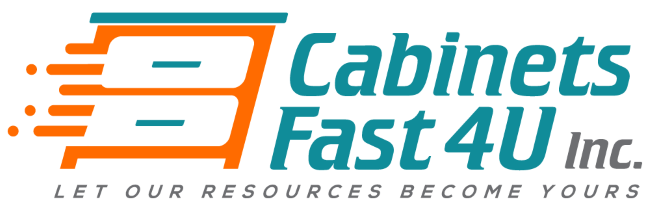
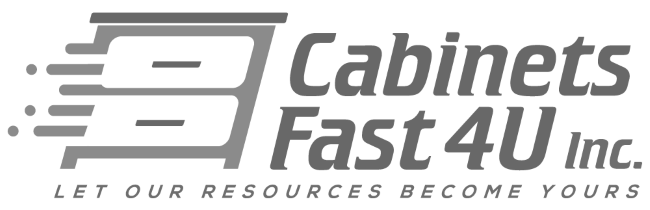
#16. Updated home client images with black and white theme and also updated about page to include new social media pages.

diff --git a/dist/main.bundle.js b/dist/main.bundle.js
@@ -38,7 +38,7 @@ module.exports = module.exports.toString();
 /***/ "../../../../../src/app/about/about.component.html":
 /***/ (function(module, exports) {
 
-module.exports = "<section>\r\n  <div class=\"parallax-container\">\r\n    <div class=\"parallax\">\r\n      <img class=\"responsive-img\" src=\"images/home-banner.jpg\"/>\r\n    </div>\r\n  </div>\r\n  <div class=\"fixed-action-btn scroll-show\">\r\n    <a id=\"menu\" class=\"btn btn-floating btn-large blurb-target scroll-show\"><i class=\"material-icons\">contact_mail</i></a>\r\n  </div>\r\n  <a class=\"waves-effect waves-light btn blurb scroll-show\">Hire Us!</a>\r\n  <!-- Tap Target Structure -->\r\n  <div class=\"tap-target\" data-activates=\"menu\">\r\n    <div class=\"tap-target-content\">\r\n      <h5>Like what you see?</h5>\r\n      <p>Contact us by calling <a href=\"tel:9493956650\">949-395-6650</a> or send us a message <a href=\"/contact\">here</a>.</p>\r\n    </div>\r\n  </div>\r\n  <div class=\"container\">\r\n    <div class=\"row\">\r\n      <h1 class=\"center-align\">An Expanding Business</h1>\r\n      <div class=\"col s12 m7\">\r\n        <p>Kevin England founded Madero Web Design Inc. in 2017 and has been working in the web development industry for over 5 years and counting. With a background in front-end web development, graphic design and an extensive background in business administration/marketing, Madero Web Design can offer you a way to make your business even more relevant in this ever changing technology driven world.</p>\r\n      </div>\r\n      <div class=\"col s12 m5\">\r\n        <img class=\"responsive-img\" src=\"images/selfies-distorted.jpg\"/>\r\n      </div>\r\n      <br/>\r\n      <div class=\"col s12\">\r\n        <p>If you would like to learn more about how we can help you or your growing business, click <a href=\"/contact\">here</a> to contact us directly!</p>\r\n      </div>\r\n      <div class=\"col s12 center-align\">\r\n        <p>Microsoft certified in Front-End Web Development:</p>\r\n        <img class=\"responsive-img margin-bottom-md\" src=\"images/ms-480-exam-small.png\"/>\r\n        <!-- <p>You can also find us on: <a href=\"#\"><i class=\"fa fa-facebook-official\" aria-hidden=\"true\"></i></a>, <a href=\"#\"><i class=\"fa fa-linkedin-square\" aria-hidden=\"true\"></i></a>, <a href=\"#\"><i class=\"fa fa-github\" aria-hidden=\"true\"></i></a>, <a href=\"#\"><i class=\"fa fa-twitter\" aria-hidden=\"true\"></i></a> and <a href=\"#\"><i class=\"fa fa-instagram\" aria-hidden=\"true\"></i></a></p> -->\r\n      </div>\r\n    </div>\r\n  </div>\r\n  <div class=\"parallax-container hide-on-small-only\">\r\n    <div class=\"parallax\">\r\n      <img class=\"responsive-img\" src=\"images/home-banner.jpg\"/>\r\n    </div>\r\n  </div>\r\n</section>"
+module.exports = "<section>\r\n  <div class=\"parallax-container\">\r\n    <div class=\"parallax\">\r\n      <img class=\"responsive-img\" src=\"images/home-banner.jpg\"/>\r\n    </div>\r\n  </div>\r\n  <div class=\"fixed-action-btn scroll-show\">\r\n    <a id=\"menu\" class=\"btn btn-floating btn-large blurb-target scroll-show\"><i class=\"material-icons\">contact_mail</i></a>\r\n  </div>\r\n  <a class=\"waves-effect waves-light btn blurb scroll-show\">Hire Us!</a>\r\n  <!-- Tap Target Structure -->\r\n  <div class=\"tap-target\" data-activates=\"menu\">\r\n    <div class=\"tap-target-content\">\r\n      <h5>Like what you see?</h5>\r\n      <p>Contact us by calling <a href=\"tel:9493956650\">949-395-6650</a> or send us a message <a href=\"/contact\">here</a>.</p>\r\n    </div>\r\n  </div>\r\n  <div class=\"container\">\r\n    <div class=\"row\">\r\n      <h1 class=\"center-align\">An Expanding Business</h1>\r\n      <div class=\"col s12 m7\">\r\n        <p>Kevin England founded Madero Web Design Inc. in 2017 and has been working in the web development industry for over 5 years and counting. With a background in front-end web development (with several certifications including Microsoft Certification 480), graphic design and an extensive background in business administration/marketing, Madero Web Design can offer you a way to make your business even more relevant in this ever changing technology driven world.</p>\r\n      </div>\r\n      <div class=\"col s12 m5\">\r\n        <img class=\"responsive-img\" src=\"images/selfies-distorted.jpg\"/>\r\n      </div>\r\n      <br/>\r\n      <div class=\"col s12\">\r\n        <p>If you would like to learn more about how we can help you or your growing business, click <a href=\"/contact\">here</a> to contact us directly!</p>\r\n      </div>\r\n      <div class=\"col s12 center-align\">\r\n        <p>You can also find us on: <a href=\"#\"><i class=\"fa fa-facebook-official\" aria-hidden=\"true\"></i></a>, <a href=\"#\"><i class=\"fa fa-linkedin-square\" aria-hidden=\"true\"></i></a>, <a href=\"#\"><i class=\"fa fa-github\" aria-hidden=\"true\"></i></a>, <a href=\"#\"><i class=\"fa fa-twitter\" aria-hidden=\"true\"></i></a> and <a href=\"#\"><i class=\"fa fa-instagram\" aria-hidden=\"true\"></i></a></p>\r\n      </div>\r\n    </div>\r\n  </div>\r\n  <div class=\"parallax-container hide-on-small-only\">\r\n    <div class=\"parallax\">\r\n      <img class=\"responsive-img\" src=\"images/home-banner.jpg\"/>\r\n    </div>\r\n  </div>\r\n</section>"
 
 /***/ }),
 

diff --git a/src/app/about/about.component.html b/src/app/about/about.component.html
@@ -19,7 +19,7 @@
     <div class="row">
       <h1 class="center-align">An Expanding Business</h1>
       <div class="col s12 m7">
-        <p>Kevin England founded Madero Web Design Inc. in 2017 and has been working in the web development industry for over 5 years and counting. With a background in front-end web development, graphic design and an extensive background in business administration/marketing, Madero Web Design can offer you a way to make your business even more relevant in this ever changing technology driven world.</p>
+        <p>Kevin England founded Madero Web Design Inc. in 2017 and has been working in the web development industry for over 5 years and counting. With a background in front-end web development (with several certifications including Microsoft Certification 480), graphic design and an extensive background in business administration/marketing, Madero Web Design can offer you a way to make your business even more relevant in this ever changing technology driven world.</p>
       </div>
       <div class="col s12 m5">
         <img class="responsive-img" src="images/selfies-distorted.jpg"/>
@@ -29,9 +29,8 @@
         <p>If you would like to learn more about how we can help you or your growing business, click <a href="/contact">here</a> to contact us directly!</p>
       </div>
       <div class="col s12 center-align">
-        <p>Microsoft certified in Front-End Web Development:</p>
-        <img class="responsive-img margin-bottom-md" src="images/ms-480-exam-small.png"/>
-        <!-- <p>You can also find us on: <a href="#"><i class="fa fa-facebook-official" aria-hidden="true"></i></a>, <a href="#"><i class="fa fa-linkedin-square" aria-hidden="true"></i></a>, <a href="#"><i class="fa fa-github" aria-hidden="true"></i></a>, <a href="#"><i class="fa fa-twitter" aria-hidden="true"></i></a> and <a href="#"><i class="fa fa-instagram" aria-hidden="true"></i></a></p> -->
+        <p>You can also find us on: <a href="https://www.linkedin.com/company/madero-web-design-inc/"><i class="fa fa-linkedin-square" aria-hidden="true"></i></a>, <a href="https://twitter.com/Madero_Web"><i class="fa fa-twitter" aria-hidden="true"></i></a></p>
+        <!-- <a href="#"><i class="fa fa-facebook-official" aria-hidden="true"></i></a>, <a href="#"><i class="fa fa-github" aria-hidden="true"></i></a>, <a href="#"><i class="fa fa-instagram" aria-hidden="true"></i></a> -->
       </div>
     </div>
   </div>
